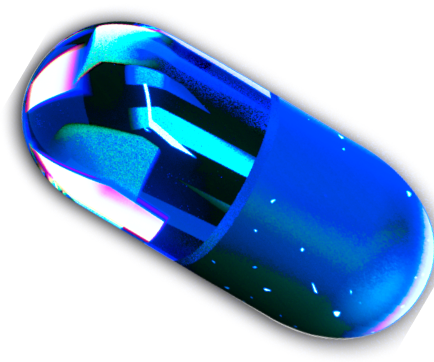
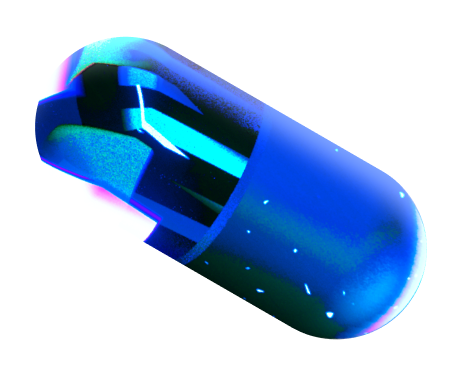
fix (task-16): design improvements

diff --git a/frontend/landing/src/components/Sections/Targets/Target/Target.scss b/frontend/landing/src/components/Sections/Targets/Target/Target.scss
@@ -5,7 +5,7 @@
     flex-direction: column;
     align-items: flex-start;
     justify-content: flex-start;
-    gap: 12px;
+    gap: 25px;
 
     &Label {
         display: flex;
@@ -18,17 +18,36 @@
         &-Text {
             font-weight: 600;
             font-size: 25px;
-            line-height: 70px;
+            line-height: 30px;
         }
 
         &-Image {
             width: 70px;
             height: 125px;
+            filter: drop-shadow(0 0 10px rgba(255, 255, 255, 0.2));
         }
 
         &.in-view {
             opacity: 1;
             transition: opacity 1s ease-in;
+        }
+    }
+
+    .DividerWrapper {
+        align-self: flex-start;
+        opacity: 0;
+
+        &.in-view {
+            opacity: 1;
+            transition: opacity 0.2s ease-in 0.3s;
+        }
+    }
+
+    &:last-child {
+        align-self: flex-end;
+
+        .DividerWrapper {
+            align-self: flex-end;
         }
     }
 
@@ -41,14 +60,11 @@
         max-width: 440px;
 
         &_description {
-            &::first-letter {
-                font-family: "Misto";
-            }
             font-size: 22px;
             line-height: 22px;
 
-            @for $i from 0 through 4 {
-                &-item#{$i + 1} {
+            @for $i from 1 through 5 {
+                &-item#{$i} {
                     opacity: 0;
 
                     &-in-view {
@@ -68,7 +84,7 @@
 
             &-Text {
                 font-size: 1.45vw;
-                line-height: 3.5vw;
+                line-height: 1.5vw;
             }
 
             &-Image {
@@ -91,12 +107,14 @@
 
 @media screen and (min-width: constants.$small) and (max-width: #{constants.$xmedium - 1}) {
     .Benefit {
+        gap: 1.5vw;
+
         &Label {
             gap: 0.4vw;
 
             &-Text {
                 font-size: 1.7vw;
-                line-height: 3.5vw;
+                line-height: 1.8vw;
             }
 
             &-Image {
@@ -119,13 +137,6 @@
 
 @media screen and (min-width: constants.$xxsmall) and (max-width: #{constants.$small - 1}) {
     .Benefit {
-        &:last-child {
-            align-self: flex-end;
-
-            .DividerWrapper {
-                align-self: flex-end;
-            }
-        }
         gap: 5vw;
 
         &Label {
@@ -146,7 +157,7 @@
         }
 
         .DividerWrapper {
-            align-self: flex-start;
+            opacity: 1;
         }
 
         &Details {

diff --git a/frontend/landing/src/components/Divider/Divider.scss b/frontend/landing/src/components/Divider/Divider.scss
@@ -25,11 +25,56 @@
             }
         }
     }
+
+    &-Mobile {
+        display: flex;
+        flex-direction: column;
+        justify-content: center;
+        align-items: center;
+        gap: 0.2vw;
+
+        &_container {
+            display: flex;
+            flex-direction: row;
+            align-items: center;
+            justify-content: flex-start;
+            gap: 0.2vw;
+
+            &-dot {
+                width: 0.2vw;
+                height: 0.2vw;
+                border-radius: 0.1vw;
+                background: #e5e5e5;
+            }
+        }
+    }
 }
 
 @media screen and (min-width: constants.$small) and (max-width: constants.$medium) {
     .DividerWrapper {
         gap: 0.7vw;
+
+        &-Mobile {
+            display: flex;
+            flex-direction: column;
+            justify-content: center;
+            align-items: center;
+            gap: 0.16vw;
+
+            &_container {
+                display: flex;
+                flex-direction: row;
+                align-items: center;
+                justify-content: flex-start;
+                gap: 0.16vw;
+
+                &-dot {
+                    width: 0.2vw;
+                    height: 0.2vw;
+                    border-radius: 0.1vw;
+                }
+            }
+        }
     }
 }
 
@@ -64,7 +109,6 @@
                     width: 1vw;
                     height: 1vw;
                     border-radius: 0.5vw;
-                    background: #ffffff;
                 }
             }
         }

diff --git a/frontend/landing/src/components/Sections/Targets/Target/Target.tsx b/frontend/landing/src/components/Sections/Targets/Target/Target.tsx
@@ -4,7 +4,6 @@ import { useInView } from "react-intersection-observer";
 
 import { kica, gilroy } from "@/fonts";
 import Divider from "@/components/Divider/Divider";
-import useScreenWidth from "@/hooks/useScreenWidth";
 
 import "./Target.scss";
 
@@ -15,7 +14,6 @@ interface ITargetProps {
 }
 
 const Target = ({ label, benefits, labelImage }: ITargetProps) => {
-    const screenWidth = useScreenWidth();
     const { ref: benefitLabes, inView: benefitLabesInView } = useInView({ triggerOnce: true });
     const { ref: descriptionItems, inView: descriptionItemsInView } = useInView({ triggerOnce: true });
 
@@ -26,7 +24,7 @@ const Target = ({ label, benefits, labelImage }: ITargetProps) => {
                 <Image src={labelImage} alt="" sizes="100vw" className="BenefitLabel-Image" />
                 <div className="BenefitLabel-Text">{label[1]}</div>
             </div>
-            {screenWidth <= 720 && <Divider type="flowMobile" gradientDirection="left" />}
+            <Divider className={cn(benefitLabesInView && "in-view")} type="flowMobile" gradientDirection="left" />
             <div ref={descriptionItems} className={cn("BenefitDetails", gilroy.className)}>
                 {benefits.map((benefit, i) => (
                     <div

diff --git a/frontend/landing/src/components/Sections/Main/Main.tsx b/frontend/landing/src/components/Sections/Main/Main.tsx
@@ -10,6 +10,7 @@ import Launch from "@/components/Buttons/Launch/Launch";
 
 import pillLeft from "../../../../public/images/main/pill-left.png";
 import pillBottom from "../../../../public/images/main/pill-bottom.png";
+import pillBottomLeft from "../../../../public/images/main/pill-bottom-left.png";
 
 import "./Main.scss";
 
@@ -21,7 +22,10 @@ const Main = () => {
             <div className="MainSection-Label">
                 <Image src={pillLeft} alt="" sizes="100vw" className="MainSection-Label_icon-pill-left" />
                 {screenSize > 720 && (
-                    <Image src={pillBottom} alt="" sizes="100vw" className="MainSection-Label_icon-pill-bottom" />
+                    <>
+                        <Image src={pillBottom} alt="" sizes="100vw" className="MainSection-Label_icon-pill-bottom" />
+                        <Image src={pillBottomLeft} alt="" sizes="100vw" className="MainSection-Label_icon-pill-bottom-left" />
+                    </>
                 )}
                 <pre className={cn("MainSection-Label_text", kica.className)}>
                     Reducing the <span className={misto.className}>Entry</span>

diff --git a/frontend/landing/src/components/Sections/Main/Main.scss b/frontend/landing/src/components/Sections/Main/Main.scss
@@ -19,6 +19,7 @@
                 height: auto;
                 top: -125px;
                 left: -85px;
+                filter: drop-shadow(0 0 30px rgba(255, 255, 255, 0.2));
             }
 
             &-pill-bottom {
@@ -27,6 +28,16 @@
                 height: auto;
                 top: 350px;
                 left: 350px;
+                filter: drop-shadow(0 0 30px rgba(255, 255, 255, 0.2));
+            }
+
+            &-pill-bottom-left {
+                position: absolute;
+                width: 65px;
+                height: auto;
+                top: 250px;
+                left: -60px;
+                filter: drop-shadow(0 0 30px rgba(255, 255, 255, 0.2));
             }
         }
 
@@ -71,6 +82,13 @@
                     height: auto;
                     top: 20vw;
                     left: 18vw;
+                }
+
+                &-pill-bottom-left {
+                    width: 5vw;
+                    height: auto;
+                    top: 15vw;
+                    left: -2.5vw;
                 }
             }
 

diff --git a/frontend/landing/src/components/Sections/Drown/Drown.tsx b/frontend/landing/src/components/Sections/Drown/Drown.tsx
@@ -5,7 +5,7 @@ import Image from "next/image";
 import Slider, { Settings } from "react-slick";
 import { useInView } from "react-intersection-observer";
 
-import { misto, kica, gilroy } from "@/fonts";
+import { kica, gilroy } from "@/fonts";
 import strings from "@/config/strings";
 
 import TwitterLink from "./TwitterLink/TwitterLink";
@@ -58,11 +58,6 @@ const Drown = () => {
                         {strings.drownBlock.container.description}
                     </div>
                     <SliderWrapper />
-                    <pre className={cn("DrownSection-Container_details-footer", kica.className)}>
-                        Stay connected, be
-                        {"\n"}
-                        part of the <span className={misto.className}>revoluzzzion</span>
-                    </pre>
                 </div>
                 <TwitterLink />
             </div>

diff --git a/frontend/landing/src/components/Divider/Divider.tsx b/frontend/landing/src/components/Divider/Divider.tsx
@@ -30,10 +30,10 @@ const Divider = ({ type, className, gradientDirection, flexDirection = "row" }: 
                     </div>
                     <div className="DividerWrapper-Mobile_container">
                         {[...new Array(3)].map((item, i) => (
-                            <div key={i} className={cn("DividerWrapper-Mobile_container-dot", "op-8")} />
+                            <div key={i} className={cn("DividerWrapper-Mobile_container-dot", "op-6")} />
                         ))}
                     </div>
-                    <div className={cn("DividerWrapper-Mobile_container-dot", "op-4")} />
+                    <div className={cn("DividerWrapper-Mobile_container-dot", "op-3")} />
                 </div>
             )}
         </div>

diff --git a/frontend/landing/src/styles/global.scss b/frontend/landing/src/styles/global.scss
@@ -35,7 +35,7 @@ a {
 
 .Background-Top {
     position: absolute;
-    left: 33%;
+    left: 40%;
     top: 0;
     z-index: 0;
     width: 300px;
@@ -84,8 +84,16 @@ a {
         opacity: 0.8;
     }
 
+    .op-6 {
+        opacity: 0.6;
+    }
+
     .op-4 {
         opacity: 0.4;
+    }
+
+    .op-3 {
+        opacity: 0.3;
     }
 
     .MainDot {
@@ -142,10 +150,10 @@ a {
     .Background-Mobile {
         display: block;
         position: absolute;
-        left: 3vw;
-        top: 85vw;
+        left: 5vw;
+        top: 95vw;
         z-index: 0;
-        width: 96vw;
+        width: 90vw;
         height: auto;
     }
 

diff --git a/frontend/landing/src/components/Sections/Targets/Targets.scss b/frontend/landing/src/components/Sections/Targets/Targets.scss
@@ -34,7 +34,6 @@
             .Benefit {
                 &Details {
                     width: 100%;
-
                     text-align: right;
                     align-items: flex-end;
                 }
@@ -105,7 +104,6 @@
                 .Benefit {
                     &Details {
                         width: 100%;
-
                         text-align: right;
                         align-items: flex-end;
                     }

diff --git a/frontend/landing/src/components/Buttons/Launch/Launch.scss b/frontend/landing/src/components/Buttons/Launch/Launch.scss
@@ -81,11 +81,11 @@
         &-Text {
             font-size: 3vw;
             line-height: 5vw;
-            padding: 2.5vw 18vw;
+            padding: 2.9vw 21vw;
         }
 
         &-Mask {
-            width: 52.4vw;
+            width: 58.4vw;
             height: auto;
         }
     }
